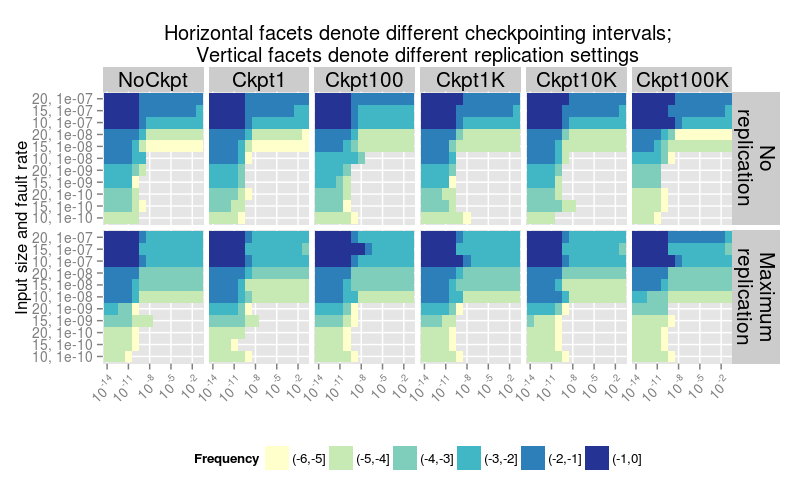
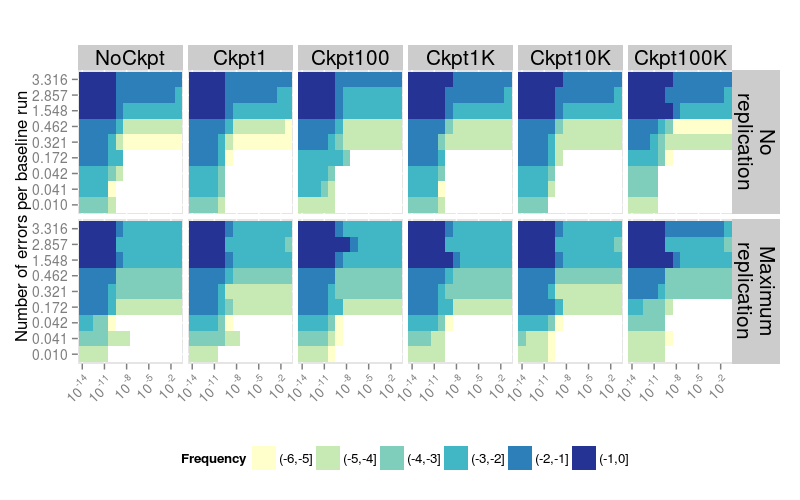
Fig 7, Ref to sigsetjmp

diff --git a/paper.tex b/paper.tex
@@ -386,7 +386,7 @@ The difference between RK routine and others motivates special discussion of its
 Since RK's adaptive step size mechanism is already effective at tolerating many numerical errors we used it as the error detector for this routine without adjusting its tolerance parameters.
 The configurable portions of the RK resilience method are thus the choice of checkpointing and/or replication strategy.
 Configurations \texttt{Ckpt} and \texttt{NoChkpt} denote whether checkpointing was used and configurations \texttt{Re} and \texttt{NoRe} denote whether replication was used.
-\greg{What checkpointing period and replication properties?} \sui{Checkpointing: every 1/100/1000/10000/100000 calls to RK4 stepping function. Replication: No replication, using 1 pair of replicas and using maximum number of replicas.}
+We use the following checkpointing intervals: every 1/100/1000/10000/100000 calls to RK4 stepping function and the following replication configurations: No replication, 1 pair of replicas for each variable inthe source code and 1 pair of replicas for each occurrance of each variable in the source code.
 
 \paragraph{Overheads}
 %\label{sec:res_tech:eval:ovhd}
@@ -400,7 +400,7 @@ Configurations \texttt{Ckpt} and \texttt{NoChkpt} denote whether checkpointing w
 \label{fig:rk_routine_detect_ovhd}
 \end{figure}
 
-Figure~\ref{fig:rk_routine_detect_ovhd} shows the overhead of employing each of the four RK resilience techniques when no errors are injected. \greg{This should be the same format as Figure~\ref{fig:routine_all_ovhd}} 
+Figure~\ref{fig:rk_routine_detect_ovhd} shows the overhead of employing each of the four RK resilience techniques when no errors are injected. \sui{Marc: please explain Fig 5} 
 
 \begin{figure}[ht!]
 \centering
@@ -409,7 +409,7 @@ Figure~\ref{fig:rk_routine_detect_ovhd} shows the overhead of employing each of 
 \label{fig:rk_routine_exp_exec}
 \end{figure}
 
-Figure~\ref{fig:rk_routine_exp_exec} shows the RK's overhead when errors are injected, using the same format as Figure~\ref{fig:routine_exp_exec}.
+Figure~\ref{fig:rk_routine_exp_exec} shows the RK's overhead when errors are injected.%, using the same format as Figure~\ref{fig:routine_exp_exec}.
 Although the \texttt{NoRe\_NoCkpt} configuration has the lowest overhead when only a few errors are injected (low error rate or small execution times), as the number of errors per run increase this configuration quickly becomes extremely slow because an error is detected in almost every run.
 Since each such detection requires a restart of the routine, at higher error rates this causes RK to restart many times before it completes.
 In contrast, while the other configurations have a higher overhead for a few errors per run, their execution time scales much better with increasing error rates, making them significantly more practical.
